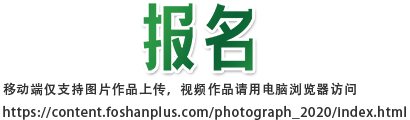
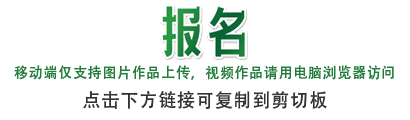
new

Changed region(s): [[0.0, 0.025, 0.9951, 1.0]]

diff --git a/action.html b/action.html
@@ -12,6 +12,16 @@
 </head>
 <body>
     <div class="mainpart_m">
+        <div class="fade progress" id="progress_m">
+            <div class="progress">
+                <div class="progress_title">
+                    <p>请不要关闭或刷新本页面</p><p>信息提交中</p>
+                    <img src="img/loading.gif" />
+                    <p id="percent">0%</p>
+                </div>
+            </div>
+        </div>
+
         <div class="fade code" id="code">
             <div class="code">
                 <div class="code_title">
@@ -29,25 +39,31 @@
                 <div class="code_close"><div class="close_code_btn" onclick="m_bak()">我已保存</div></div>
             </div>
         </div>
-
-        <div class="notice">
-            <div class="notice_title">参赛须知</div>
-            <div class="notice_main">
-                <p><strong>1.</strong>&nbsp;所有参赛作品须以“花海四季  缤纷禅城”为指导，按照大赛四个摄影主题【禅城之绿】、【四时飞花】、【寻觅古韵】以及【美好家园】，通过摄影、微视频形式进行拍摄和制作。作品的政治方向、舆论导向、价值取向必须正确，符合社会主义核心价值观，作品内容积极健康，传播社会正能量，不得含有血腥、恐怖等不良内容。</p>
-                <br/><p><strong>2.</strong>&nbsp;作品须贴合主题，真实反映禅城区的城市美貌、历史人文、市民风貌等，可为高清图集或短视频。参赛作品必须由参赛者本人或单位原创，确认拥有作品著作权。</p>
-                <br/><p><strong>3.</strong>&nbsp;所有参赛作品须为本单位（本人）原创，不能存在任何侵犯第三方权利的内容，不能违反法律法规的规定，且提供的关于作品的信息全部真实、有效。</p>
-                <br/><p><strong>4.</strong>&nbsp;如果参赛作品被选中大赛获奖作品刊登在各媒体网站，产生任何纠纷，须由参赛单位（或联系人）承担责任。如给本网站造成任何损失，须由参赛单位（或联系人）向本网站进行赔偿。</p>
-                <br/><p><strong>5.</strong>&nbsp;所有参赛作品自愿授权大赛组织单位使用，并均可在佛山+及其他传播平台上发布。</p>
-                <br/><p><strong>6.</strong>&nbsp;本人/我司在充分理解并自愿接受比赛通知和评选规则的前提下参赛。</p>
+        <div class="fade notice" id="notice">
+            <div class="notice">
+                <div class="notice_title">参赛须知</div>
+                <div class="notice_main">
+                    <p><strong>1.</strong>&nbsp;所有参赛作品须以“花海四季  缤纷禅城”为指导，按照大赛四个摄影主题【禅城之绿】、【四时飞花】、【寻觅古韵】以及【美好家园】，通过摄影、微视频形式进行拍摄和制作。作品的政治方向、舆论导向、价值取向必须正确，符合社会主义核心价值观，作品内容积极健康，传播社会正能量，不得含有血腥、恐怖等不良内容。</p>
+                    <br/><p><strong>2.</strong>&nbsp;作品须贴合主题，真实反映禅城区的城市美貌、历史人文、市民风貌等，可为高清图集或短视频。参赛作品必须由参赛者本人或单位原创，确认拥有作品著作权，严禁剽窃、侵权，主办方不承担包括（不限于）肖像权、名誉权、隐私权、著作权、商标权等纠纷而产生的法律责任，如出现上述，将保留取消参赛资格及追回奖项的权利。</p>
+                    <br/><p><strong>3.</strong>&nbsp;所有参赛作品须为本单位（本人）原创，不能存在任何侵犯第三方权利的内容，不能违反法律法规的规定，且提供的关于作品的信息全部真实、有效。</p>
+                    <br/><p><strong>4.</strong>&nbsp;参赛作品仅用于参加本次大赛，不得曾用于其他渠道或平台，一经发现，将取消参赛资格。</p>
+                    <br/><p><strong>5.</strong>&nbsp;如果参赛作品被选中大赛获奖作品刊登在各媒体网站，产生任何纠纷，须由参赛单位（或联系人）承担责任。如给本网站造成任何损失，须由参赛单位（或联系人）向本网站进行赔偿。</p>
+                    <br/><p><strong>6.</strong>&nbsp;所有参赛作品自愿授权大赛组织单位使用，并均可在佛山+及其他传播平台上发布。</p>
+                    <br/><p><strong>7.</strong>&nbsp;本人/我司在充分理解并自愿接受比赛通知和评选规则的前提下参赛。</p>
+                </div>
+                <div class="notice_close"><div class="close_btn" onclick="closenotice()">我已知晓</div></div>
             </div>
-            <div class="notice_close"><div class="close_btn" onclick="closenotice()">我已知晓</div></div>
         </div>
+
         <div class="header"><img src="http://img.foshanplus.com/2020/pic/chan/p1/title.png" /></div>
-        <div class="title_m"><img src="img/m1title.png" style="width: 65%;"/></div>
+        <div class="title_m">
+            <img src="img/m1title.png" style="width: 65%;"/>
+            <input onclick="clipToborad_pclink()" id="link_pc" value="https://content.foshanplus.com/photograph_2020/index.html" readonly>
+        </div>
 
         <div class="forNofsplus" id="forNofsplus">
             <div class="forNofsplus_notice">扫码下载佛山+立即报名!<br/>实时查询作品审核进度</div>
-            <img src="img/download.png" />
+            <img src="https://img.foshanplus.com/2020/pic/chan/v2/download.png" />
         </div>
 
         <div class="forfsplus" id="forfsplus">
@@ -73,17 +89,17 @@
                     <div class="fsplus_label"><span>身份证号:</span></div>
                     <div class="fsplus_sheet"><input id="prjidentify" name="identify" type="text" /></div>
                 </div>
-                <div class="fsplus_line_big">
+                <!-- <div class="fsplus_line_big">
                     <div class="fsplus_label_big"><span>作品概要:</span></div>
                     <div class="fsplus_sheet_big"><textarea id="shortprjmain" name="content_500" type="text" ></textarea></div>
-                </div>
+                </div> -->
                 <div class="fsplus_line_big">
                     <div class="fsplus_label_big"><span>作品简介:</span></div>
                     <div class="fsplus_sheet_big"><textarea id="shortprjverify" name="content" type="text" ></textarea></div>
                 </div>
                 <div class="fsplus_line">
                     <div class="fsplus_label"><span>上传作品:</span></div>
-                    <div class="fsplus_sheet_file"><input id="prjcover" name="fimg" type="file" /></div>
+                    <div class="fsplus_sheet_file"><input style="top:4vw" id="prjcover" name="fimg" type="file" /></div>
                 </div>
             </form>
         </div>

diff --git a/control/js/places.js b/control/js/places.js
@@ -35,7 +35,7 @@ var placeinfo = {
                 "半月岛湿地公园以其原生稀缺的景观资源，成为广佛人心中的“西双版纳”。 公园内河涌交织，绿树婆娑，百果飘香，鸢飞鱼跃，独具三角洲城市湖泊与河流湿地特色，融汇了繁华都市与自然生态美景，是候鸟迁徙重要栖息地和岭南民俗文化荟萃区。公园坐居禅城、桂城和广州三地交界处的东平河畔，总面积8.8万平方米，绿化面积约5万平方米。园区拥有完整的原生生态链和自然景致，生态环境十分美好，可谓是广佛交界不可错过的湿地公园。",
                 "佛山祖庙，位于广东省佛山市禅城区，现为国家级重点文物保护单位，国家AAAA级旅游景区，广东省爱国主义教育基地，广东省中华文化传承基地、广东十个文明旅游景区示范点之一。佛山岭南天地以祖庙、东华里、历史风貌区为发展主轴，运用现代化的手法改造祖庙东华里片区内具有典型岭南民居建筑风格的优秀历史建筑，包括住宅、办公楼、零售、餐饮、娱乐、旅游及文化等多功能设施，延续佛山风情风貌，打造佛山新地标。俗话说“先有塔坡，后有佛山”，紧邻岭南天地的塔坡是佛山得名的地方，被称为“佛山初地”。塔坡社区内有塔坡庙、塔坡井和佛山鸿胜馆等多个景点，浓缩了粤剧、武术、龙狮等多种非物质传统文化。因为其历史地位的特殊性，塔坡还成为了佛山人对家乡的情感寄托，也是新佛山人、外地游客了解佛山的一个窗口。",
                 "南风古灶旅游区位于著名的南国陶都石湾，集旅游、观光、生产、习艺、研讨、参与、购物于一体。景区是围绕着南风灶、高灶、高庙、林家厅等重点文物保护单位建立的国家AAAA级旅游景区。景区内汇聚了山公微雕、古作车拉坯、拍大缸、打草鞋等传统工艺精华，又集合了舞狮、武术、粤剧、剪纸等民间艺术精粹，每天都吸引了大批来自全世界各地的人们，在这个世界陶文化圣地寻陶根，找陶魂，体验博大精深的中国文化。社头坊，是禅城城管内街小巷提升改造的成果之一。随着一批陶瓷、艺术作坊的进驻，让公仔街——1506创意产业园——社头坊形成陶瓷文化产业链，成为吸引众多文青打卡好去处。在春光的映照下，社头坊街衢明净，古井清冽，百年前房屋上梁时刻字纪念的石板，静静地躺在小巷中央。而与它相隔几十米的公仔街，陶瓷作坊、画室林立，几所咖啡店偶尔会坐着几个年轻人，举杯品尝着湖边春色。",
-                "王借岗森林公园总规划面积约1050亩，是我市重要生态节点，属市“万亩千亩”、千亩生态绿心之一，是推动生态建设从“浅绿”到“深绿”的重点项目，也是大湾区高品质森林城市建设的重要支撑。公园设计注重整体景观联系，充分利用自然水系，借助火山遗址为视角焦点，打造成以火山遗址景观、滨河湿地景观、综合公园景观于一体的特色公园空间：山峰适合进行一些登高、望远、探索活动，山峰间的山谷休闲漫步、健身活动的优质场所，水体边则可以分布众多休息、观水、望远等活动，并通过绿道、主园路、栈道进行串联，构成了王借岗森林公园景观的独特魅力。",
+                "王借岗森林公园总规划面积约1050亩，是我市重要生态节点，属市“万亩千亩”、千亩生态绿心之一，是推动生态建设从“浅绿”到“深绿”的重点项目，也是大湾区高品质森林城市建设的重要支撑。公园设计注重整体景观联系，充分利用自然水系，借助火山遗址为视角焦点，打造成以火山遗址景观、滨河湿地景观、综合公园景观于一体的特色公园空间：山峰适合进行一些登高、望远、探索活动，山谷则是休闲漫步、健身活动的优质场所，水体边则适宜休息、观水、望远等活动，并通过绿道、主园路、栈道进行串联，构成了王借岗森林公园景观的独特魅力。",
                 "东平河北岸滨水公园即东平河石湾湿地公园，位于禅城区东平河北岸明窦水闸至佛山新港码头段，建设总面积约13.6万平方米。公园建设以“魅力湿地”为理念，同时配合“绿城飞花”主题进行绿化景观建设。公园入口处,大片的美人蕉映入眼帘,粉红色的花朵随风轻轻摇曳;顺着公园绿道向远方看去，粉红色的美人蕉花海铺满了坡地,并配以睡莲、千屈菜等各种湿地主题花海植物，与之交相辉映。此外，公园还设置了休闲配套设施，包括健身广场、阳光大草坪、湿地景观岛、景观生态湖、观鸡台、休闲步道、休闲广场等。",
                 "绿岛湖湿地公园是一个集宣传、展览、科普、娱乐、休闲等功能于一体的综合性公园。公园以“岭南水乡”为主题，分为落羽杉、桑树林、观鹭平台、水生科普区、历史人文区等多个区域，同时还融入了生态科普、地方人文历史等自然文化元素。整个湿地公园的广场、小径都用青石板铺成，幽深小径贯穿其间，走在上面，一步一风景，一步一情怀，悠然惬意。",
             ]

diff --git a/control/js/m1.js b/control/js/m1.js
@@ -38,7 +38,7 @@ function allsumbit() {
     var contact_person = document.getElementById("prjcontact").value.length;
     var phone = document.getElementById("prjphone").value.length;
     var identify_id = document.getElementById("prjidentify").value.length;
-    var content_500 = document.getElementById("shortprjmain").value.length;
+    // var content_500 = document.getElementById("shortprjmain").value.length;
     var content = document.getElementById("shortprjverify").value.length;
 
     var fimg = document.getElementById("prjcover"); //获取整体file
@@ -84,10 +84,10 @@ function allsumbit() {
         alert("请填写身份证号");
         return;
     }
-    if (content_500 === 0) {
-        alert("请填写作品概要");
-        return;
-    }
+    // if (content_500 === 0) {
+    //     alert("请填写作品概要");
+    //     return;
+    // }
     if (content === 0) {
         alert("请填写作品简介");
         return;
@@ -115,20 +115,33 @@ function allsumbit() {
         alert("文件大小需在2M-20M");
         return;
     }
-
-
     ajax_postinfo(formall)
 }
 
 function ajax_postinfo(data) {
+
+    $("#progress_m").css("display","block")
     $.ajax({
         type:"post",
-        async: false,
+        async: true,
         processData: false,
         contentType: false,
         url: 'https://server.foshanplus.com/hei_up',
         // url: 'http://172.16.20.17:8000/hei_up',
         data: data,
+        xhr: function() {                        
+            myXhr = $.ajaxSettings.xhr();
+            if(myXhr.upload){ // check if upload property exists
+                myXhr.upload.addEventListener('progress',function(e){                            
+                    var loaded = e.loaded;                  //已经上传大小情况 
+                    var total = e.total;                      //附件总大小 
+                    var percent = Math.floor(100*loaded/total)+"%";     //已经上传的百分比  
+                    // console.log("已经上传了："+percent);                 
+                    $("#percent").html(percent);                                                     
+                }, false); // for handling the progress of the upload
+            }
+            return myXhr;
+        },
         success:function(receiver){
             // console.log(receiver);
             var success_id = receiver.data.id;
@@ -136,6 +149,9 @@ function ajax_postinfo(data) {
             var strid = success_id.toString();
             // console.log(strid);
             var strid_md5 = strid.MD5().toLocaleUpperCase();
+
+            $("#progress_m").css("display","none")
+
             $("#successcode").val(strid_md5);
             $("#code").css("display","block")
         },
@@ -149,6 +165,14 @@ function ajax_postinfo(data) {
 
 function clipToborad() {
     var target = document.getElementById("successcode");
+    // console.log(target)
+    target.select();
+    document.execCommand("Copy");
+    alert("已复制到剪切板，可粘贴。");
+}
+
+function clipToborad_pclink() {
+    var target = document.getElementById("link_pc");
     // console.log(target)
     target.select();
     document.execCommand("Copy");

diff --git a/control/css/m1.css b/control/css/m1.css
@@ -3,7 +3,7 @@
 */
 
 .notice {
-    display: none;
+    /* display: none; */
     position: absolute;
     left: 50%; 
     top: 50%;
@@ -70,10 +70,11 @@
 
 /*-------------*/
 .forfsplus {
-    height: 50%;
+    /* height: 50%; */
     overflow-y: auto;
     padding: 3vw;
     margin: 2vw;
+    margin-top: 3vw;
     border: 1px dashed #207329;
     border-radius: 2vw;
 }
@@ -188,6 +189,14 @@
     display: none;
 }
 
+#progress_m{
+    display: none;
+}
+
+#notice {
+    display: block;
+}
+
 .code {
     position: absolute;
     left: 50%; 
@@ -202,14 +211,6 @@
     border-radius: 5vw;
     padding: 10px;
     z-index: 999;
-}
-
-.fade {
-    width: 100%;
-    height: 100%;
-    background: #000;
-    border-radius: 0;
-    opacity: 0.9;
 }
 
 .code_title {
@@ -294,4 +295,56 @@
     padding: 10px 5px;
     cursor: pointer;
     margin: 0 auto;
+}
+
+
+.progress {
+    position: absolute;
+    left: 50%; 
+    top: 50%;
+    transform: translate(-50%, -50%);
+    -webkit-transform: translate(-50%, -50%);
+    width: 80%;
+    height: 30%;
+    background: #feed4d;
+    background-size: 100%;
+    opacity: 0.9;
+    border-radius: 5vw;
+    padding: 10px;
+    z-index: 999;
+}
+
+.progress_title {
+    margin: 10px 0;
+    text-align: center;
+    color: #207329;
+    font-size: 18px;
+}
+
+.progress_title p{
+    font-weight: 800;
+}
+
+.progress_title img {
+    display: inline-block;
+    width: 20%;
+    margin: 1vw 0;
+}
+
+.fade {
+    width: 100%;
+    height: 100%;
+    background: #000;
+    border-radius: 0;
+    opacity: 0.9;
+    position: fixed;
+}
+
+#link_pc {
+    width: 100%;
+    text-align: center;
+    font-size: 11px;
+    background-color: transparent;
+    outline: none;
+    border: 0;
 }

diff --git a/control/css/m0.css b/control/css/m0.css
@@ -21,7 +21,7 @@
     -webkit-transform: translate(-50%, -50%);
     width: 95%;
     height: auto;
-    background: url(../../img/menu_bak.png) top center no-repeat;
+    background: url(https://img.foshanplus.com/2020/pic/chan/v2/menu_bak.png) top center no-repeat;
     background-size: 100%;
     opacity: 0.8;
 }
@@ -60,25 +60,25 @@
 }
 
 .m1 {
-    background: url(../../img/n1.png) top center no-repeat;
+    background: url(https://img.foshanplus.com/2020/pic/chan/v2/n1.png) top center no-repeat;
     background-size: 100%;
     opacity: 1;
 }
 
 .m2 {
-    background: url(../../img/n2.png) top center no-repeat;
+    background: url(https://img.foshanplus.com/2020/pic/chan/v2/n2.png) top center no-repeat;
     background-size: 100%;
     opacity: 1;
 }
 
 .m3 {
-    background: url(../../img/n3.png) top center no-repeat;
+    background: url(https://img.foshanplus.com/2020/pic/chan/v2/n3.png) top center no-repeat;
     background-size: 100%;
     opacity: 1;
 }
 
 .m4 {
-    background: url(../../img/n4.png) top center no-repeat;
+    background: url(https://img.foshanplus.com/2020/pic/chan/v2/n4.png) top center no-repeat;
     background-size: 100%;
     opacity: 1;
 }

diff --git a/control/js/m4.js b/control/js/m4.js
@@ -19,7 +19,7 @@ function ajax_forpics() {
                 for (var i = 0; i < picnum; i++) {
                     let line1 = '';
                     let line2 = '';
-                    line1 = '<div class="piclist_item"><img src="' + piclistx[0][i].url + '"/>';
+                    line1 = '<div class="piclist_item"><a target="_blank" href="' + piclistx[0][i].url + '"><img src="' + piclistx[0][i].pic_url + '"/></a>';
                     line2 = '<div class="imgtitle">' + piclistx[0][i].title + '</div><div class="imgauthor">' + piclistx[0][i].item_id + '</div></div>';
                     picstr += (line1 + line2);
                 }

diff --git a/news.html b/news.html
@@ -13,7 +13,7 @@
 <body>
     <div class="mainpart_m">
         <div class="header"><img src="http://img.foshanplus.com/2020/pic/chan/p1/title.png" /></div>
-        <div class="title_m"><img src="img/m3title.png" style="width: 50%;"/></div>
+        <div class="title_m"><img src="https://img.foshanplus.com/2020/pic/chan/v2/m3title.png" style="width: 50%;"/></div>
         <div class="newslist" id="news_m"></div>
         <div class="footer_m" onclick="m_bak()"><span>返回首页</span></div>
     </div>

diff --git a/show.html b/show.html
@@ -13,7 +13,7 @@
 <body>
     <div class="mainpart_m">
         <div class="header"><img src="http://img.foshanplus.com/2020/pic/chan/p1/title.png" /></div>
-        <div class="title_m"><img src="img/m4title.png" style="width: 50%;"/></div>
+        <div class="title_m"><img src="https://img.foshanplus.com/2020/pic/chan/v2/m4title.png" style="width: 50%;"/></div>
         <div class="piclist" id="pic_m"></div>
         <div class="footer_m" onclick="m_bak()"><span>返回首页</span></div>
     </div>
